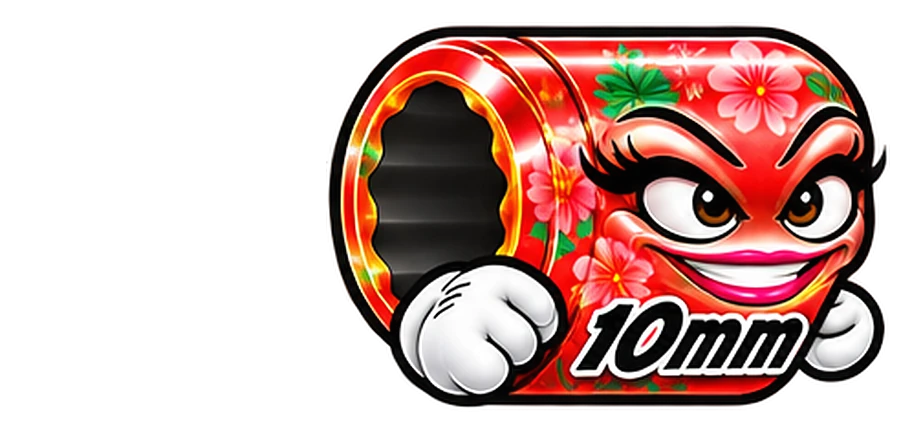
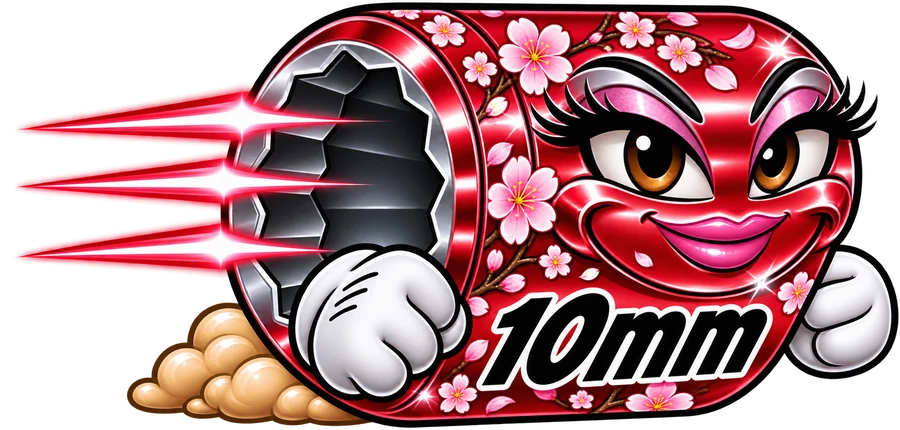
Female sockets: full-size Cherry Blossom art (#200)
Claude-Session: https://claude.ai/code/session_01AFKMpkU4WxKBTu2So1ft36

diff --git a/game.js b/game.js
@@ -3657,7 +3657,7 @@ const FACE_A = { body: [610, 240, 430], eyes: [695, 175, 200], mouth: [680, 238,
 const FACE_B = { body: [625, 225, 470], eyes: [705, 170, 200], mouth: [700, 280, 170], top: [710, 40, 270], side: [880, 205, 200] };
 const FACE_B_SKINS = new Set("chrome golden10 pitcrew goldrush carbon storm camo oldglory flames slime firered haze frost barnfind skull biohazard menace visor checkered trackday galaxy puertorico electric pink royal titanium blueline gunmetal sunset lime teal mint copper bronze rosegold emerald midnight pearl lava chromequeen hotpinkglam purplediva redracer blueracer goldglam rosegoldglam holoqueen leopard zebra carbonqueen usaglam camoqueen mermaid galaxyglam heartbreaker pearlqueen crowned snowqueen floral porcelain".split(" "));
 // per-skin nudges on top of the family anchors: [dx, dy, widthScale]
-const FACE_FIX = { porcelain: { body: [-80, -10, 0.9], eyes: [-30, -20, 1], mouth: [-35, -42, 1], top: [-40, 15, 1], side: [-50, 0, 1] }, chromequeen: { body: [-55, -10, 0.9], eyes: [10, -20, 1], mouth: [12, -42, 1], top: [-10, 15, 1], side: [-10, 0, 1] }, hotpinkglam: { body: [-55, -10, 0.9], eyes: [10, -20, 1], mouth: [12, -42, 1], top: [-10, 15, 1], side: [-10, 0, 1] }, purplediva: { body: [-55, -10, 0.9], eyes: [10, -20, 1], mouth: [12, -42, 1], top: [-10, 15, 1], side: [-10, 0, 1] }, redracer: { body: [-55, -10, 0.9], eyes: [10, -20, 1], mouth: [12, -42, 1], top: [-10, 15, 1], side: [-10, 0, 1] }, blueracer: { body: [-55, -10, 0.9], eyes: [10, -20, 1], mouth: [12, -42, 1], top: [-10, 15, 1], side: [-10, 0, 1] }, goldglam: { body: [-55, -10, 0.9], eyes: [10, -20, 1], mouth: [12, -42, 1], top: [-10, 15, 1], side: [-10, 0, 1] }, rosegoldglam: { body: [-55, -10, 0.9], eyes: [10, -20, 1], mouth: [12, -42, 1], top: [-10, 15, 1], side: [-10, 0, 1] }, holoqueen: { body: [-55, -10, 0.9], eyes: [10, -20, 1], mouth: [12, -42, 1], top: [-10, 15, 1], side: [-10, 0, 1] }, leopard: { body: [-55, -10, 0.9], eyes: [10, -20, 1], mouth: [12, -42, 1], top: [-10, 15, 1], side: [-10, 0, 1] }, zebra: { body: [-55, -10, 0.9], eyes: [10, -20, 1], mouth: [12, -42, 1], top: [-10, 15, 1], side: [-10, 0, 1] }, carbonqueen: { body: [-55, -10, 0.9], eyes: [10, -20, 1], mouth: [12, -42, 1], top: [-10, 15, 1], side: [-10, 0, 1] }, usaglam: { body: [-55, -10, 0.9], eyes: [10, -20, 1], mouth: [12, -42, 1], top: [-10, 15, 1], side: [-10, 0, 1] }, camoqueen: { body: [-55, -10, 0.9], eyes: [10, -20, 1], mouth: [12, -42, 1], top: [-10, 15, 1], side: [-10, 0, 1] }, mermaid: { body: [-55, -10, 0.9], eyes: [10, -20, 1], mouth: [12, -42, 1], top: [-10, 15, 1], side: [-10, 0, 1] }, galaxyglam: { body: [-55, -10, 0.9], eyes: [10, -20, 1], mouth: [12, -42, 1], top: [-10, 15, 1], side: [-10, 0, 1] }, heartbreaker: { body: [-55, -10, 0.9], eyes: [10, -20, 1], mouth: [12, -42, 1], top: [-10, 15, 1], side: [-10, 0, 1] }, pearlqueen: { body: [-55, -10, 0.9], eyes: [10, -20, 1], mouth: [12, -42, 1], top: [-10, 15, 1], side: [-10, 0, 1] }, crowned: { body: [-55, -10, 0.9], eyes: [10, -20, 1], mouth: [12, -42, 1], top: [-10, 15, 1], side: [-10, 0, 1] }, snowqueen: { body: [-55, -10, 0.9], eyes: [10, -20, 1], mouth: [12, -42, 1], top: [-10, 15, 1], side: [-10, 0, 1] }, floral: { body: [-22, -5, 0.85], eyes: [45, 30, 1], mouth: [40, -15, 1], top: [30, 60, 1], side: [0, 15, 1] }, golden10: { eyes: [15, 38, 0.85], mouth: [15, 30, 0.9], side: [0, 25, 1], top: [10, 25, 0.95], body: [0, 10, 1] } };
+const FACE_FIX = { porcelain: { body: [-80, -10, 0.9], eyes: [-30, -20, 1], mouth: [-35, -42, 1], top: [-40, 15, 1], side: [-50, 0, 1] }, chromequeen: { body: [-55, -10, 0.9], eyes: [10, -20, 1], mouth: [12, -42, 1], top: [-10, 15, 1], side: [-10, 0, 1] }, hotpinkglam: { body: [-55, -10, 0.9], eyes: [10, -20, 1], mouth: [12, -42, 1], top: [-10, 15, 1], side: [-10, 0, 1] }, purplediva: { body: [-55, -10, 0.9], eyes: [10, -20, 1], mouth: [12, -42, 1], top: [-10, 15, 1], side: [-10, 0, 1] }, redracer: { body: [-55, -10, 0.9], eyes: [10, -20, 1], mouth: [12, -42, 1], top: [-10, 15, 1], side: [-10, 0, 1] }, blueracer: { body: [-55, -10, 0.9], eyes: [10, -20, 1], mouth: [12, -42, 1], top: [-10, 15, 1], side: [-10, 0, 1] }, goldglam: { body: [-55, -10, 0.9], eyes: [10, -20, 1], mouth: [12, -42, 1], top: [-10, 15, 1], side: [-10, 0, 1] }, rosegoldglam: { body: [-55, -10, 0.9], eyes: [10, -20, 1], mouth: [12, -42, 1], top: [-10, 15, 1], side: [-10, 0, 1] }, holoqueen: { body: [-55, -10, 0.9], eyes: [10, -20, 1], mouth: [12, -42, 1], top: [-10, 15, 1], side: [-10, 0, 1] }, leopard: { body: [-55, -10, 0.9], eyes: [10, -20, 1], mouth: [12, -42, 1], top: [-10, 15, 1], side: [-10, 0, 1] }, zebra: { body: [-55, -10, 0.9], eyes: [10, -20, 1], mouth: [12, -42, 1], top: [-10, 15, 1], side: [-10, 0, 1] }, carbonqueen: { body: [-55, -10, 0.9], eyes: [10, -20, 1], mouth: [12, -42, 1], top: [-10, 15, 1], side: [-10, 0, 1] }, usaglam: { body: [-55, -10, 0.9], eyes: [10, -20, 1], mouth: [12, -42, 1], top: [-10, 15, 1], side: [-10, 0, 1] }, camoqueen: { body: [-55, -10, 0.9], eyes: [10, -20, 1], mouth: [12, -42, 1], top: [-10, 15, 1], side: [-10, 0, 1] }, mermaid: { body: [-55, -10, 0.9], eyes: [10, -20, 1], mouth: [12, -42, 1], top: [-10, 15, 1], side: [-10, 0, 1] }, galaxyglam: { body: [-55, -10, 0.9], eyes: [10, -20, 1], mouth: [12, -42, 1], top: [-10, 15, 1], side: [-10, 0, 1] }, heartbreaker: { body: [-55, -10, 0.9], eyes: [10, -20, 1], mouth: [12, -42, 1], top: [-10, 15, 1], side: [-10, 0, 1] }, pearlqueen: { body: [-55, -10, 0.9], eyes: [10, -20, 1], mouth: [12, -42, 1], top: [-10, 15, 1], side: [-10, 0, 1] }, crowned: { body: [-55, -10, 0.9], eyes: [10, -20, 1], mouth: [12, -42, 1], top: [-10, 15, 1], side: [-10, 0, 1] }, snowqueen: { body: [-55, -10, 0.9], eyes: [10, -20, 1], mouth: [12, -42, 1], top: [-10, 15, 1], side: [-10, 0, 1] }, floral: { body: [-55, -10, 0.9], eyes: [10, -20, 1], mouth: [12, -42, 1], top: [-10, 15, 1], side: [-10, 0, 1] }, golden10: { eyes: [15, 38, 0.85], mouth: [15, 30, 0.9], side: [0, 25, 1], top: [10, 25, 0.95], body: [0, 10, 1] } };
 function faceFor(skin) {
   const F = FACE_B_SKINS.has(skin) ? FACE_B : FACE_A, fx = FACE_FIX[skin];
   if (!fx) return F;
@@ -3675,7 +3675,7 @@ const ownedLooks = () => LSget("tenmm-looks-owned", []);
 const equippedLooks = () => LSget("tenmm-looks", {});
 var heroComp = { key: "", url: "" };
 function lookKey() { const eq = equippedLooks(); return equippedSkin() + "|" + Object.keys(LOOK_SLOTS).map((s) => eq[s] || "").join(","); }
-const FACEBOX = {"porcelain":[505,55,830,115,545,110,800,200,590,205,740,270],"chromequeen":[545,55,880,115,575,105,860,200,625,205,800,270],"hotpinkglam":[545,55,880,115,575,105,860,200,625,205,800,270],"purplediva":[545,55,880,115,575,105,860,200,625,205,800,270],"redracer":[545,55,880,115,575,105,860,200,625,205,800,270],"blueracer":[545,55,880,115,575,105,860,200,625,205,800,270],"goldglam":[545,55,880,115,575,105,860,200,625,205,800,270],"rosegoldglam":[545,55,880,115,575,105,860,200,625,205,800,270],"holoqueen":[545,55,880,115,575,105,860,200,625,205,800,270],"leopard":[545,55,880,115,575,105,860,200,625,205,800,270],"zebra":[545,55,880,115,575,105,860,200,625,205,800,270],"carbonqueen":[545,55,880,115,575,105,860,200,625,205,800,270],"usaglam":[545,55,880,115,575,105,860,200,625,205,800,270],"camoqueen":[545,55,880,115,575,105,860,200,625,205,800,270],"mermaid":[545,55,880,115,575,105,860,200,625,205,800,270],"galaxyglam":[545,55,880,115,575,105,860,200,625,205,800,270],"heartbreaker":[545,55,880,115,575,105,860,200,625,205,800,270],"pearlqueen":[545,55,880,115,575,105,860,200,625,205,800,270],"crowned":[545,55,880,115,575,105,860,200,625,205,800,270],"snowqueen":[545,55,880,115,575,105,860,200,625,205,800,270],"floral":[600,105,870,175,640,170,860,235,640,232,840,300],"chrome":[588,80,845,165,600,142,840,218,622,248,826,297],"golden10":[615,140,822,210,640,180,835,250,650,255,820,300],"rusty":[555,115,790,200,585,150,790,228,610,232,752,282],"black":[555,115,790,200,585,150,790,228,610,232,752,282],"candy":[555,115,790,200,585,150,790,228,610,232,752,282],"gold":[555,115,790,200,585,150,790,228,610,232,752,282],"neon":[555,115,790,200,585,150,790,228,610,232,752,282],"purple":[555,115,790,200,585,150,790,228,610,232,752,282],"champ":[555,115,790,200,585,150,790,228,610,232,752,282],"afterburner":[555,115,790,200,585,150,790,228,610,232,752,282],"diamond":[555,115,790,200,585,150,790,228,610,232,752,282],"santa":[555,115,790,200,585,150,790,228,610,232,752,282],"candycane":[555,115,790,200,585,150,790,228,610,232,752,282],"valentine":[555,115,790,200,585,150,790,228,610,232,752,282],"shamrock":[555,115,790,200,585,150,790,228,610,232,752,282],"easter":[555,115,790,200,585,150,790,228,610,232,752,282],"usa":[555,115,790,200,585,150,790,228,610,232,752,282],"pumpkin":[555,115,790,200,585,150,790,228,610,232,752,282],"turkey":[555,115,790,200,585,150,790,228,610,232,752,282],"pitcrew":[588,82,845,167,600,144,840,218,622,248,826,286],"firered":[588,75,845,160,600,137,840,204,622,234,826,272],"gunmetal":[588,75,845,160,600,137,840,204,622,234,826,272],"sunset":[588,75,845,160,600,137,840,204,622,234,826,272],"lime":[588,75,845,160,600,137,840,204,622,234,826,272],"teal":[588,75,845,160,600,137,840,204,622,234,826,272],"mint":[588,75,845,160,600,137,840,204,622,234,826,272],"copper":[588,75,845,160,600,137,840,204,622,234,826,272],"bronze":[588,75,845,160,600,137,840,204,622,234,826,272],"rosegold":[588,75,845,160,600,137,840,204,622,234,826,272],"emerald":[588,75,845,160,600,137,840,204,622,234,826,272],"midnight":[588,75,845,160,600,137,840,204,622,234,826,272],"pearl":[588,75,845,160,600,137,840,204,622,234,826,272],"lava":[588,75,845,160,600,137,840,204,622,234,826,272],"electric":[588,81,845,166,600,143,840,213,622,243,826,283],"pink":[588,76,845,161,600,138,840,206,622,236,826,275],"royal":[588,80,845,165,600,142,840,211,622,241,826,279],"camo":[588,90,845,175,600,152,840,217,622,249,826,286],"barnfind":[588,87,845,172,600,149,840,213,622,245,826,282],"checkered":[588,85,845,170,600,147,840,216,622,244,826,281],"oldglory":[588,76,845,161,600,138,840,208,622,238,826,277],"puertorico":[588,82,845,167,600,144,840,211,622,239,826,288],"blueline":[588,76,845,161,600,138,840,215,622,245,826,283],"carbon":[588,81,845,166,600,143,840,215,622,247,826,284],"trackday":[588,82,845,167,600,144,840,212,622,241,826,281],"goldrush":[588,85,845,170,600,147,840,214,622,246,826,284],"titanium":[588,80,845,165,600,142,840,208,622,238,826,276],"visor":[588,83,845,168,600,145,840,215,622,244,826,281],"menace":[588,93,845,178,600,155,840,218,622,252,826,278],"flames":[588,75,845,160,600,137,840,204,622,235,826,274],"frost":[588,85,845,170,600,147,840,212,622,243,826,280],"storm":[588,82,845,167,600,144,840,217,622,247,826,286],"haze":[588,85,845,170,600,147,840,212,622,240,826,277],"slime":[588,80,845,165,600,142,840,205,622,235,826,270],"biohazard":[588,91,845,176,600,153,840,217,622,249,826,285],"skull":[588,83,845,168,600,145,840,215,622,244,826,281],"galaxy":[588,83,845,168,600,145,840,212,622,242,826,280]};
+const FACEBOX = {"porcelain":[505,55,830,115,545,110,800,200,590,205,740,270],"chromequeen":[545,55,880,115,575,105,860,200,625,205,800,270],"hotpinkglam":[545,55,880,115,575,105,860,200,625,205,800,270],"purplediva":[545,55,880,115,575,105,860,200,625,205,800,270],"redracer":[545,55,880,115,575,105,860,200,625,205,800,270],"blueracer":[545,55,880,115,575,105,860,200,625,205,800,270],"goldglam":[545,55,880,115,575,105,860,200,625,205,800,270],"rosegoldglam":[545,55,880,115,575,105,860,200,625,205,800,270],"holoqueen":[545,55,880,115,575,105,860,200,625,205,800,270],"leopard":[545,55,880,115,575,105,860,200,625,205,800,270],"zebra":[545,55,880,115,575,105,860,200,625,205,800,270],"carbonqueen":[545,55,880,115,575,105,860,200,625,205,800,270],"usaglam":[545,55,880,115,575,105,860,200,625,205,800,270],"camoqueen":[545,55,880,115,575,105,860,200,625,205,800,270],"mermaid":[545,55,880,115,575,105,860,200,625,205,800,270],"galaxyglam":[545,55,880,115,575,105,860,200,625,205,800,270],"heartbreaker":[545,55,880,115,575,105,860,200,625,205,800,270],"pearlqueen":[545,55,880,115,575,105,860,200,625,205,800,270],"crowned":[545,55,880,115,575,105,860,200,625,205,800,270],"snowqueen":[545,55,880,115,575,105,860,200,625,205,800,270],"floral":[545,55,880,115,575,105,860,200,625,205,800,270],"chrome":[588,80,845,165,600,142,840,218,622,248,826,297],"golden10":[615,140,822,210,640,180,835,250,650,255,820,300],"rusty":[555,115,790,200,585,150,790,228,610,232,752,282],"black":[555,115,790,200,585,150,790,228,610,232,752,282],"candy":[555,115,790,200,585,150,790,228,610,232,752,282],"gold":[555,115,790,200,585,150,790,228,610,232,752,282],"neon":[555,115,790,200,585,150,790,228,610,232,752,282],"purple":[555,115,790,200,585,150,790,228,610,232,752,282],"champ":[555,115,790,200,585,150,790,228,610,232,752,282],"afterburner":[555,115,790,200,585,150,790,228,610,232,752,282],"diamond":[555,115,790,200,585,150,790,228,610,232,752,282],"santa":[555,115,790,200,585,150,790,228,610,232,752,282],"candycane":[555,115,790,200,585,150,790,228,610,232,752,282],"valentine":[555,115,790,200,585,150,790,228,610,232,752,282],"shamrock":[555,115,790,200,585,150,790,228,610,232,752,282],"easter":[555,115,790,200,585,150,790,228,610,232,752,282],"usa":[555,115,790,200,585,150,790,228,610,232,752,282],"pumpkin":[555,115,790,200,585,150,790,228,610,232,752,282],"turkey":[555,115,790,200,585,150,790,228,610,232,752,282],"pitcrew":[588,82,845,167,600,144,840,218,622,248,826,286],"firered":[588,75,845,160,600,137,840,204,622,234,826,272],"gunmetal":[588,75,845,160,600,137,840,204,622,234,826,272],"sunset":[588,75,845,160,600,137,840,204,622,234,826,272],"lime":[588,75,845,160,600,137,840,204,622,234,826,272],"teal":[588,75,845,160,600,137,840,204,622,234,826,272],"mint":[588,75,845,160,600,137,840,204,622,234,826,272],"copper":[588,75,845,160,600,137,840,204,622,234,826,272],"bronze":[588,75,845,160,600,137,840,204,622,234,826,272],"rosegold":[588,75,845,160,600,137,840,204,622,234,826,272],"emerald":[588,75,845,160,600,137,840,204,622,234,826,272],"midnight":[588,75,845,160,600,137,840,204,622,234,826,272],"pearl":[588,75,845,160,600,137,840,204,622,234,826,272],"lava":[588,75,845,160,600,137,840,204,622,234,826,272],"electric":[588,81,845,166,600,143,840,213,622,243,826,283],"pink":[588,76,845,161,600,138,840,206,622,236,826,275],"royal":[588,80,845,165,600,142,840,211,622,241,826,279],"camo":[588,90,845,175,600,152,840,217,622,249,826,286],"barnfind":[588,87,845,172,600,149,840,213,622,245,826,282],"checkered":[588,85,845,170,600,147,840,216,622,244,826,281],"oldglory":[588,76,845,161,600,138,840,208,622,238,826,277],"puertorico":[588,82,845,167,600,144,840,211,622,239,826,288],"blueline":[588,76,845,161,600,138,840,215,622,245,826,283],"carbon":[588,81,845,166,600,143,840,215,622,247,826,284],"trackday":[588,82,845,167,600,144,840,212,622,241,826,281],"goldrush":[588,85,845,170,600,147,840,214,622,246,826,284],"titanium":[588,80,845,165,600,142,840,208,622,238,826,276],"visor":[588,83,845,168,600,145,840,215,622,244,826,281],"menace":[588,93,845,178,600,155,840,218,622,252,826,278],"flames":[588,75,845,160,600,137,840,204,622,235,826,274],"frost":[588,85,845,170,600,147,840,212,622,243,826,280],"storm":[588,82,845,167,600,144,840,217,622,247,826,286],"haze":[588,85,845,170,600,147,840,212,622,240,826,277],"slime":[588,80,845,165,600,142,840,205,622,235,826,270],"biohazard":[588,91,845,176,600,153,840,217,622,249,826,285],"skull":[588,83,845,168,600,145,840,215,622,244,826,281],"galaxy":[588,83,845,168,600,145,840,212,622,242,826,280]};
 // eye and mouth looks fit boxes measured on each skin: B = brows, E = eyes, M = mouth (teeth)
 const LOOK_FIT = { brows: ["B", 1.04, "c", 0, 1.12], lashes: ["B", 1.06, "c", 0.05, 1.12], glasses: ["B", 1.0, "t", -0.05], ninja: ["E", 1.32, "c", -0.25], welding: ["E", 1.5, "c", -0.35],
   lips: ["M", 1.15, "c", 0.05], grin: ["M", 1.12, "c", 0], mustache: ["M", 1.15, "b", 0.75], beard: ["M", 1.38, "t", -0.15] };

diff --git a/index.html b/index.html
@@ -233,7 +233,7 @@ body.one-button #jumpLeft{display:none}body.one-button #pause{grid-area:pause;mi
 .loot-hud span{display:flex;align-items:center;gap:5px}.ico{width:20px;height:20px;flex:none}
 .lvhead{grid-column:1/-1;text-align:left;font-size:12px;font-weight:900;letter-spacing:2px;color:#ffcb43;margin:8px 2px 0}
 .shop .charrow{grid-column:1/-1;display:grid;grid-template-columns:1fr 1fr;gap:8px}.shop .skin.char img{height:74px;width:auto;object-fit:contain}.shop .skin.char small{display:block;font-size:11px;color:#9fb4c6;margin:-2px 0 6px}.shop .charnote{grid-column:1/-1;margin:2px 0 6px;font-size:12px;color:#9fb4c6;text-align:center}.shop{display:none;grid-template-columns:repeat(2,1fr);gap:8px;margin:4px 0 12px;max-height:50dvh;overflow:auto;padding:2px}.shop.on{display:grid}.skin{background:#22323f;border:2px solid #3e5266;border-radius:14px;padding:8px 6px;text-align:center;color:#d4e0e8;font-weight:800;font-size:13px}.skin .tag{display:inline-block;margin-top:4px;background:#e8343e;color:#fff;font-size:10px;font-weight:900;letter-spacing:.5px;padding:2px 7px;border-radius:8px}.skin.eq{border-color:#ffcb43;box-shadow:0 0 0 2px #ffcb4355 inset}.skin img{width:100%;max-width:120px;height:auto;display:block;margin:2px auto 4px}.panel .skin button{min-height:36px;margin:6px 0 0;font-size:13px;padding:0 6px;width:100%}.skin button.own{background:#455b70;color:#fff}.skin button.buy{background:#ffcb43;color:#1a2630}.skin button.no{background:#33424f;color:#8aa0b2}.stage{position:relative}#powHud{position:absolute;left:12px;top:10px;display:flex;gap:6px;z-index:3;pointer-events:none}#powHud .pw{position:relative;width:44px;height:44px;border-radius:50%;background:conic-gradient(#ffcb43 var(--p),#ffffff22 0);display:flex;align-items:center;justify-content:center}#powHud .pw::before{content:"";position:absolute;inset:4px;border-radius:50%;background:#101820e6}#powHud .pw img{position:relative;width:28px;height:28px;object-fit:contain}#powHud .pw b{position:absolute;right:-4px;bottom:-4px;min-width:18px;height:18px;border-radius:9px;background:#ffcb43;color:#1a2630;font:900 11px/18px system-ui;text-align:center;padding:0 3px}#powHud .pw.low{animation:pwblink .4s steps(2) infinite}@keyframes pwblink{50%{opacity:.35}}.shoptabs{grid-column:1/-1;display:flex;gap:6px;position:sticky;top:-2px;z-index:2;background:#263645;padding:2px 0 6px}.panel .shoptabs button{flex:1;min-height:38px;margin:0;font-size:13px;background:#2b3b4a;color:#cfe0ec;border:1px solid #4d6378;box-shadow:none}.panel .shoptabs button.on{background:#ffcb43;color:#1a2630;border-color:#ffcb43}.gempty{grid-column:1/-1;color:#8aa0b2;font-size:13px;padding:8px;text-align:center}.panel .shop button.gclear{grid-column:1/-1;min-height:40px;margin:4px 0;background:#455b70;color:#fff;font-size:13px}.skin.look img{height:58px;width:auto;max-width:100%;object-fit:contain}.skin .lslot{font-size:10px;font-weight:900;letter-spacing:1px;color:#8aa0b2;margin-top:2px}
-</style><link rel="stylesheet" href="theme.css"></head><body><main><header><h1>WHERE'S MY 10MM?!</h1><small>THE GREAT SOCKET ESCAPE • V24.6</small></header><div class="dash"><div class="stats"><div>LEVEL<strong id="level">1 / 200</strong></div><div>DISTANCE<strong id="distance">0%</strong></div><div>BEST<strong id="best">1</strong></div></div><div class="loot-hud"><span><img class="ico" src="coin.webp" alt=""> COINS <b id="coinsCount">0</b></span><span><svg class="ico" viewBox="0 0 24 24"><polygon points="12,1.5 15,8.6 22.7,9.3 16.9,14.4 18.6,22 12,18 5.4,22 7.1,14.4 1.3,9.3 9,8.6" fill="#ffcb43" stroke="#b97a08" stroke-width="1.4" stroke-linejoin="round"/></svg> SCORE <b id="scoreCount">0</b></span></div><div class="speed-meter" aria-label="Speed gained by clearing obstacles"><span>SPEED <b id="speedLabel">1.00×</b></span><div class="speed-track"><div id="speedFill"></div></div></div></div><section class="stage"><div id="powHud"></div><canvas id="scene" width="600" height="610" aria-label="Rolling socket obstacle game"></canvas><p id="tip" aria-live="polite">Tap twice for a double jump. Collect power-ups!</p></section><div class="buttons"><button id="jumpLeft" aria-label="Jump with left hand">JUMP</button><button id="pause" class="secondary">PAUSE</button><button id="restart" class="secondary">RETRY</button><button id="jump" aria-label="Jump with right hand">JUMP</button></div></main><div class="overlay" id="overlay"><div class="panel"><div class="eyebrow" id="eyebrow">THE GREAT SOCKET ESCAPE</div><div class="art" id="menuArt">10mm</div><h2 id="message">WHERE’S MY 10MM?!</h2><p id="details">What if the 10mm socket wasn’t lost… what if it was escaping?</p><div class="opts" id="opts"></div><div class="levels" id="levels"></div><div class="shop" id="shop"></div><button id="go">PLAY ADVENTURE</button><button id="menuExtra" class="sub">HOW TO PLAY</button><button id="menuShop" class="sub">SOCKET SHOP</button><button id="menuLevels" class="sub">LEVEL SELECT</button><button id="menuSettings" class="ghost">SETTINGS</button></div></div><script src="game.js"></script><div id="home" class="hidden"><div class="hbg"></div>
+</style><link rel="stylesheet" href="theme.css"></head><body><main><header><h1>WHERE'S MY 10MM?!</h1><small>THE GREAT SOCKET ESCAPE • V24.7</small></header><div class="dash"><div class="stats"><div>LEVEL<strong id="level">1 / 200</strong></div><div>DISTANCE<strong id="distance">0%</strong></div><div>BEST<strong id="best">1</strong></div></div><div class="loot-hud"><span><img class="ico" src="coin.webp" alt=""> COINS <b id="coinsCount">0</b></span><span><svg class="ico" viewBox="0 0 24 24"><polygon points="12,1.5 15,8.6 22.7,9.3 16.9,14.4 18.6,22 12,18 5.4,22 7.1,14.4 1.3,9.3 9,8.6" fill="#ffcb43" stroke="#b97a08" stroke-width="1.4" stroke-linejoin="round"/></svg> SCORE <b id="scoreCount">0</b></span></div><div class="speed-meter" aria-label="Speed gained by clearing obstacles"><span>SPEED <b id="speedLabel">1.00×</b></span><div class="speed-track"><div id="speedFill"></div></div></div></div><section class="stage"><div id="powHud"></div><canvas id="scene" width="600" height="610" aria-label="Rolling socket obstacle game"></canvas><p id="tip" aria-live="polite">Tap twice for a double jump. Collect power-ups!</p></section><div class="buttons"><button id="jumpLeft" aria-label="Jump with left hand">JUMP</button><button id="pause" class="secondary">PAUSE</button><button id="restart" class="secondary">RETRY</button><button id="jump" aria-label="Jump with right hand">JUMP</button></div></main><div class="overlay" id="overlay"><div class="panel"><div class="eyebrow" id="eyebrow">THE GREAT SOCKET ESCAPE</div><div class="art" id="menuArt">10mm</div><h2 id="message">WHERE’S MY 10MM?!</h2><p id="details">What if the 10mm socket wasn’t lost… what if it was escaping?</p><div class="opts" id="opts"></div><div class="levels" id="levels"></div><div class="shop" id="shop"></div><button id="go">PLAY ADVENTURE</button><button id="menuExtra" class="sub">HOW TO PLAY</button><button id="menuShop" class="sub">SOCKET SHOP</button><button id="menuLevels" class="sub">LEVEL SELECT</button><button id="menuSettings" class="ghost">SETTINGS</button></div></div><script src="game.js"></script><div id="home" class="hidden"><div class="hbg"></div>
 <div class="htitle"><b>WHERE'S MY 10MM?!</b><small>THE GREAT SOCKET ESCAPE</small></div>
 <div class="hstage"><img class="hmag" src="chaser-magnet.webp" alt=""><div class="hposter"><span class="pm">MISSING</span><img src="socket-chrome.webp" alt=""><span class="pempty">GONE!</span><span class="p10">10MM</span></div><img class="hfly" src="socket-chrome.webp" alt=""><img class="hhero" id="hHero" src="socket-chrome.webp" alt=""><img class="hglove" src="chaser-glove.webp" alt=""></div>
 <div class="htap" id="hTap">TAP TO START</div><div id="gift" class="hidden"><div class="gcard"><div class="gl">DAILY GIFT</div><img src="coin.webp" alt=""><div class="ga" id="giftAmt">+10 COINS</div><div class="gd" id="giftDay">DAY 1</div><button id="giftClaim">CLAIM</button></div></div>
